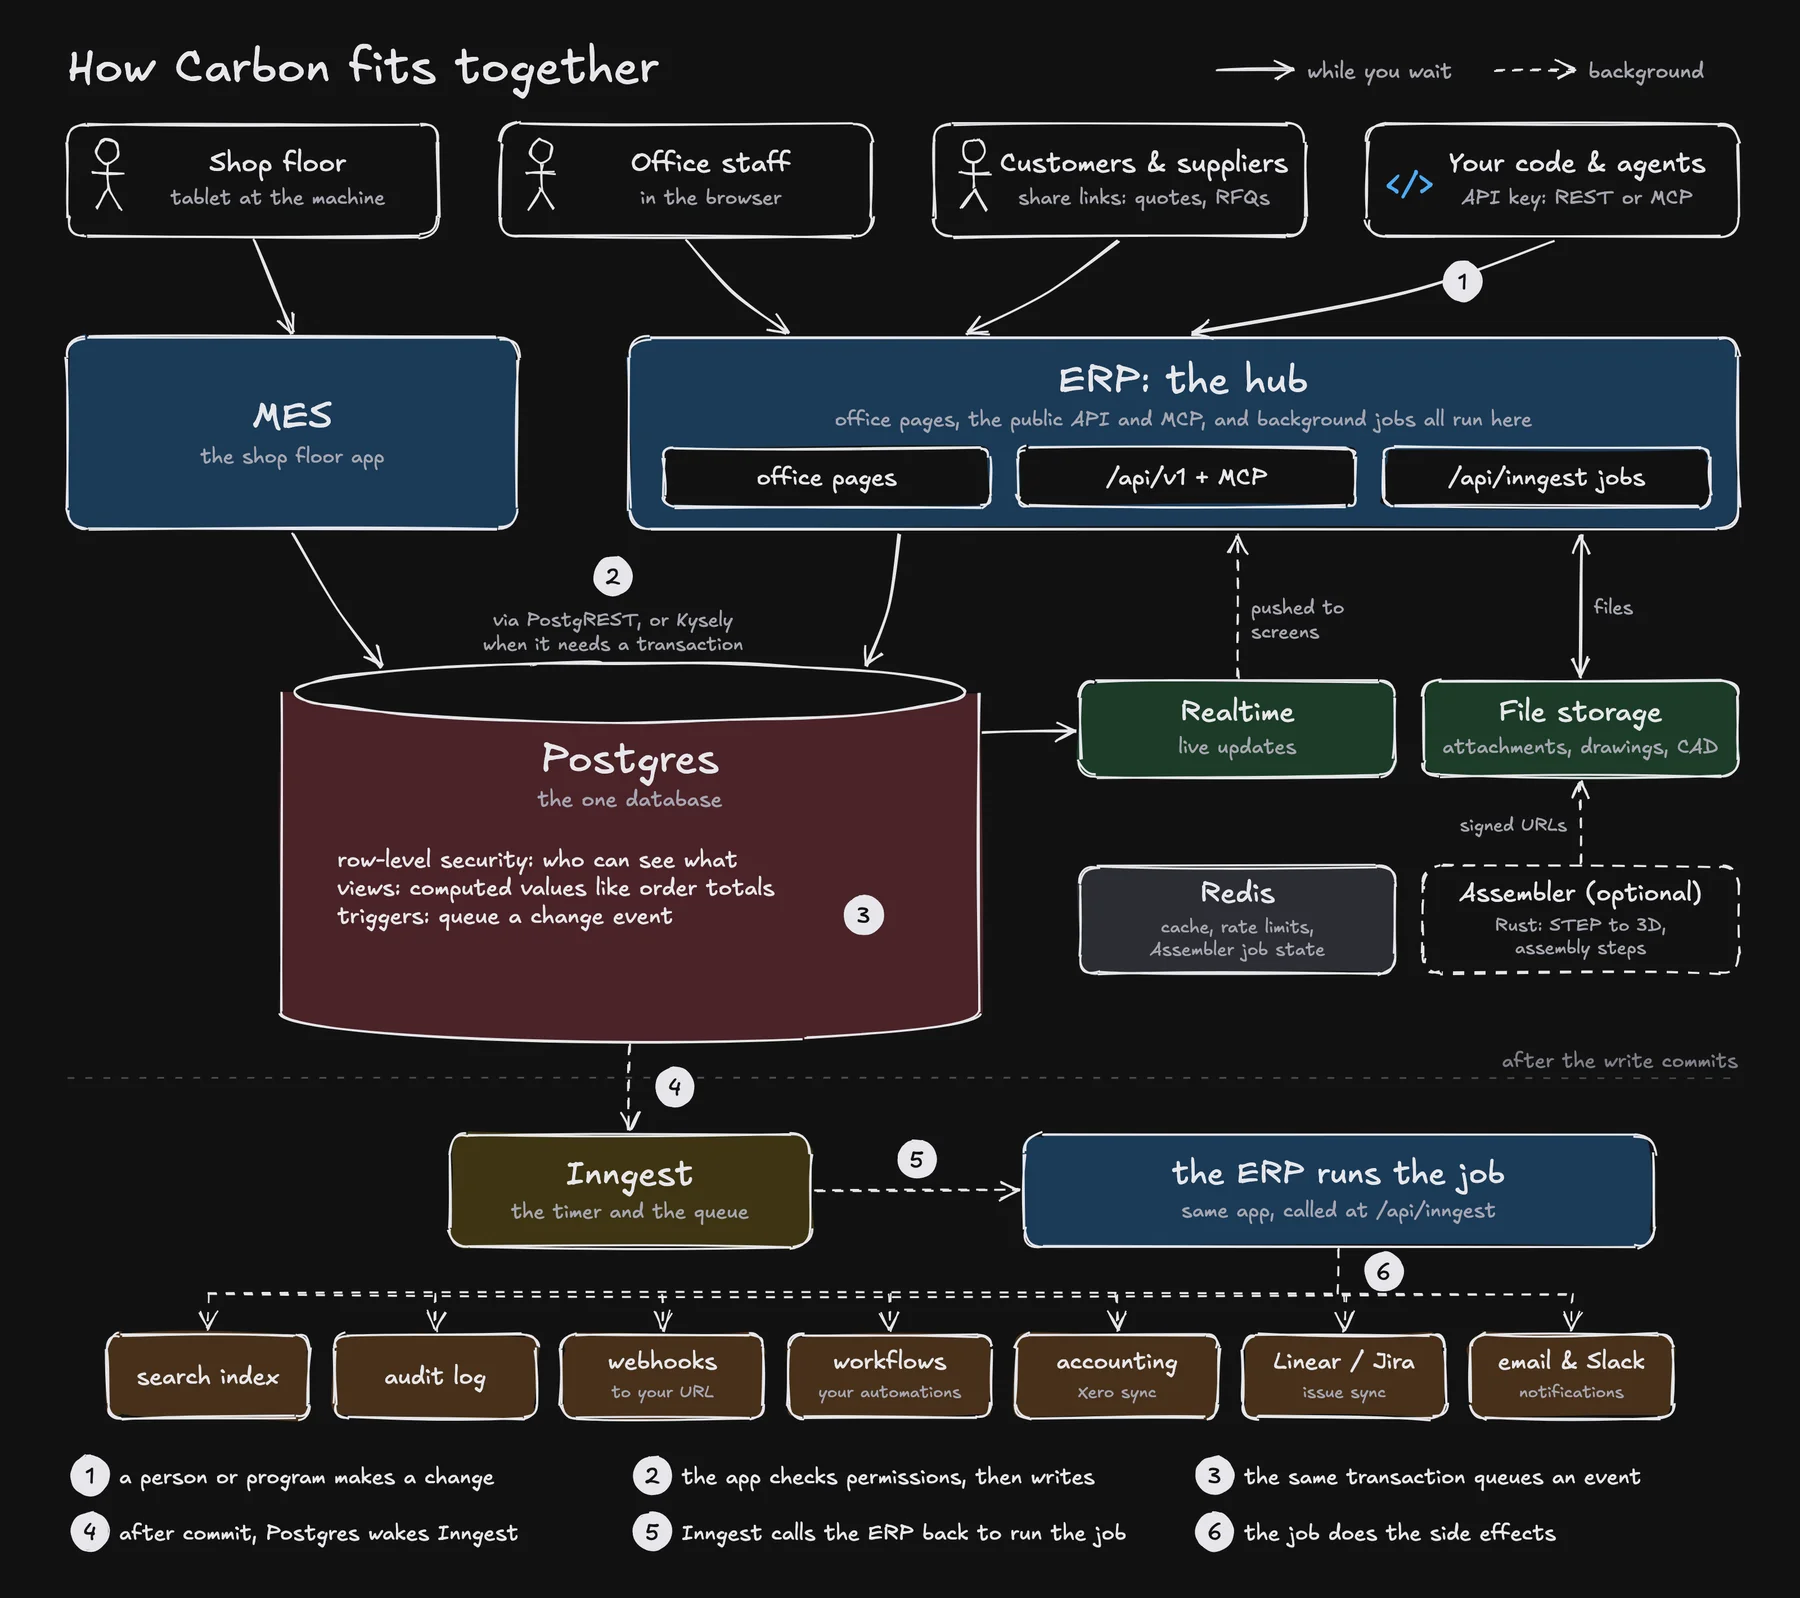
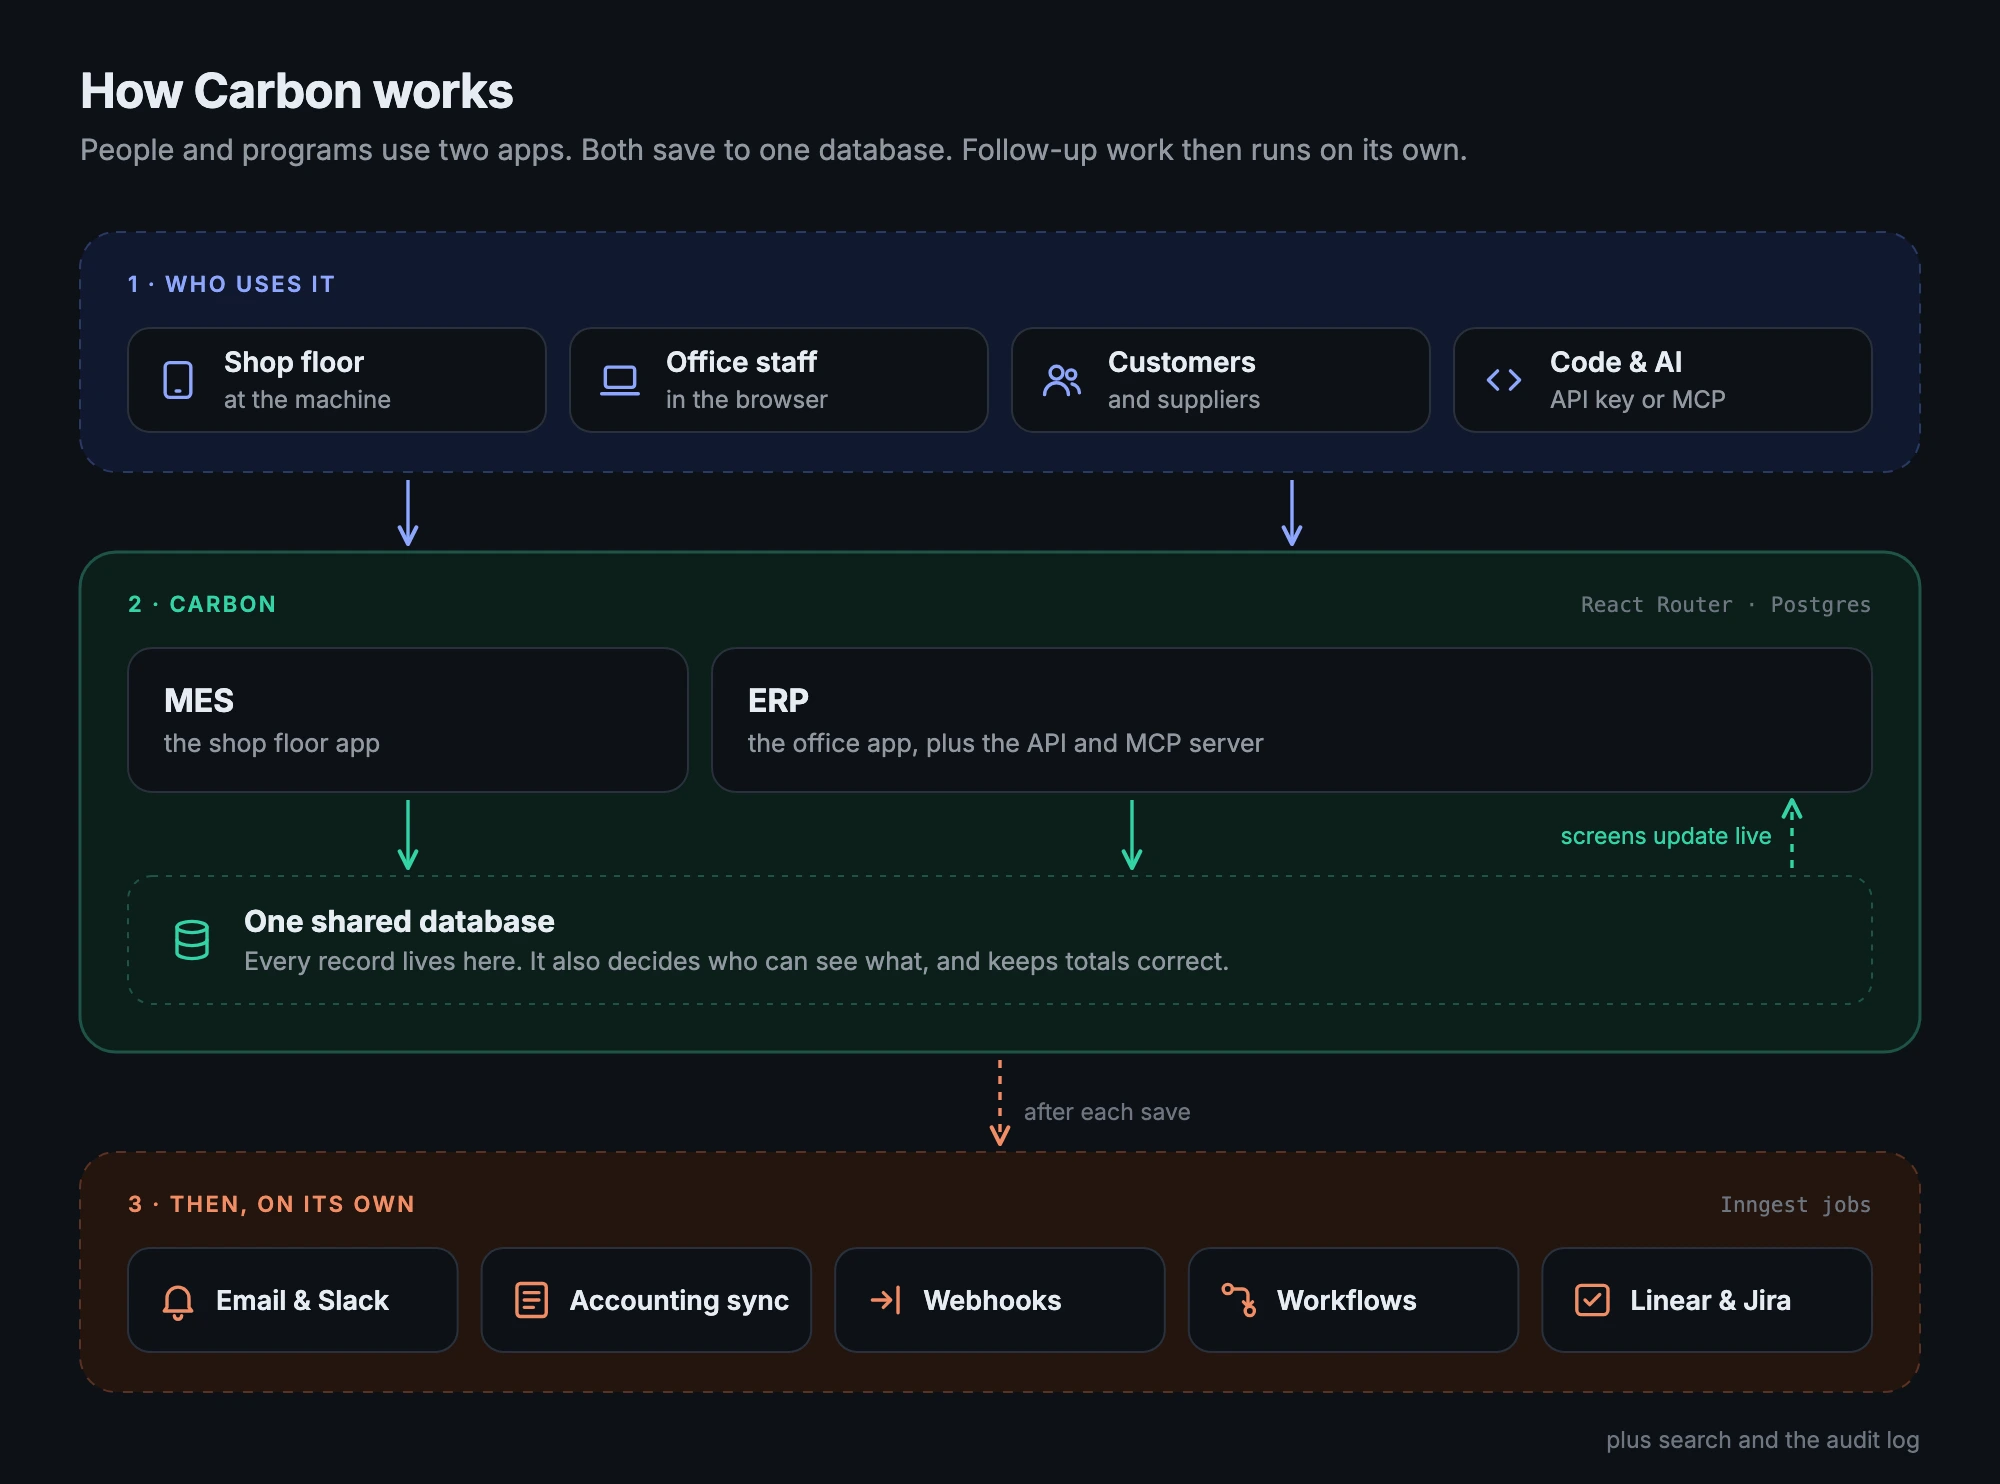
improvement: simpler, friendlier README diagrams

diff --git a/README.md b/README.md
@@ -103,8 +103,8 @@ Carbon puts ERP, MRP, MES and QMS in **one Postgres database you can inspect, ow
 
 <p align="center">
   <picture>
-    <source media="(prefers-color-scheme: dark)" srcset=".github/assets/readme/one-database-dark.webp" />
-    <img alt="Why one database: in the usual setup, planning, production, quality and accounting each keep their own copy of the data and are joined by re-keying and connectors; in Carbon, sales, engineering, planning, production, quality, inventory and accounting all read and write the same Postgres database" src=".github/assets/readme/one-database-light.webp" width="900" />
+    <source media="(prefers-color-scheme: dark)" srcset=".github/assets/readme/where-carbon-fits-dark.webp" />
+    <img alt="Where Carbon fits: your sales tools (CRM and quoting, online store, customer portal) send orders in, and your factory (machines and robots, sensors and testing, your own software) gets work out, both through the Carbon API. In the middle, Carbon plans, runs and tracks the work: orders, planning, scheduling, shop floor, quality and inventory, all on one shared Postgres database. Analytics sees across all three." src=".github/assets/readme/where-carbon-fits-light.webp" width="900" />
   </picture>
 </p>
 
@@ -182,7 +182,7 @@ ERP and MES are React Router apps over a single Postgres database. Permissions (
 <a href="https://docs.carbon.ms/docs/building/architecture">
   <picture>
     <source media="(prefers-color-scheme: dark)" srcset=".github/assets/readme/architecture-dark.webp" />
-    <img alt="How Carbon fits together: shop floor staff use the MES; office staff, customers, suppliers, your code and AI agents reach the ERP. Both apps check permissions and write to Postgres, which enforces row-level security, computes totals in views and queues change events in the same transaction. After commit, Inngest calls the ERP back to run jobs that update search, the audit log, webhooks, workflows, accounting sync, Linear and Jira, email and Slack. Realtime pushes live updates to screens." src=".github/assets/readme/architecture-light.webp" width="900" />
+    <img alt="How Carbon works: 1, shop floor staff, office staff, customers and suppliers, and your code and AI use Carbon; 2, inside Carbon, the MES for the shop floor and the ERP for the office, the API and MCP, both save to one shared database that decides who can see what and keeps totals correct, and screens update live; 3, after each save, background jobs send email and Slack, sync accounting, call webhooks, run workflows and sync Linear and Jira, plus search and the audit log." src=".github/assets/readme/architecture-light.webp" width="900" />
   </picture>
 </a>
 
@@ -192,7 +192,7 @@ Carbon is intended to be the core of a bespoke end-to-end manufacturing system. 
 
 <picture>
   <source media="(prefers-color-scheme: dark)" srcset=".github/assets/readme/build-on-carbon-dark.webp" />
-  <img alt="Ways to build on Carbon: your own app (from apps/starter), scripts and other systems use the Carbon API, AI agents use the MCP server, and reports use the Data API. All of them get the same permissions as the signed-in user or API key. The API and MCP run the same operations the ERP uses; the Data API goes straight to tables and views. On a change, Carbon calls out through webhooks, workflows and integrations." src=".github/assets/readme/build-on-carbon-light.webp" width="900" />
+  <img alt="Build on Carbon: 1, you connect your own app and scripts through the API, AI agents through MCP and reports through the Data API; 2, Carbon gives every way in the same permissions as the person or API key and the same actions the Carbon app uses, on one shared database; 3, Carbon tells others through webhooks, workflows and integrations such as Onshape, SolidWorks, Slack, Xero and Jira." src=".github/assets/readme/build-on-carbon-light.webp" width="900" />
 </picture>
 
 <br />
